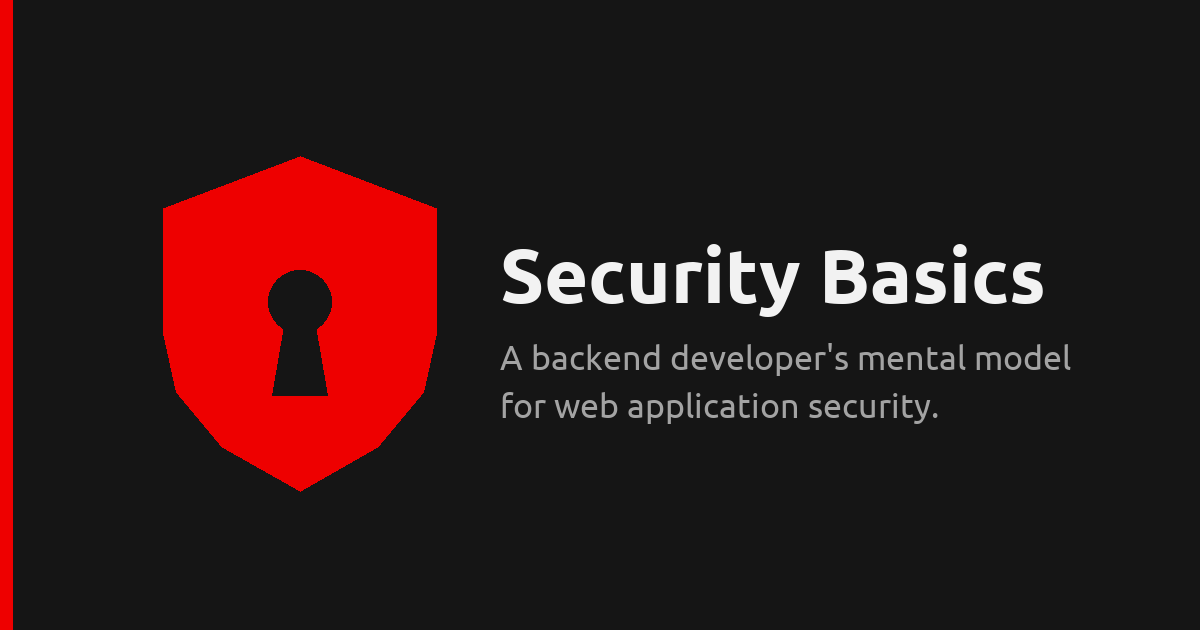
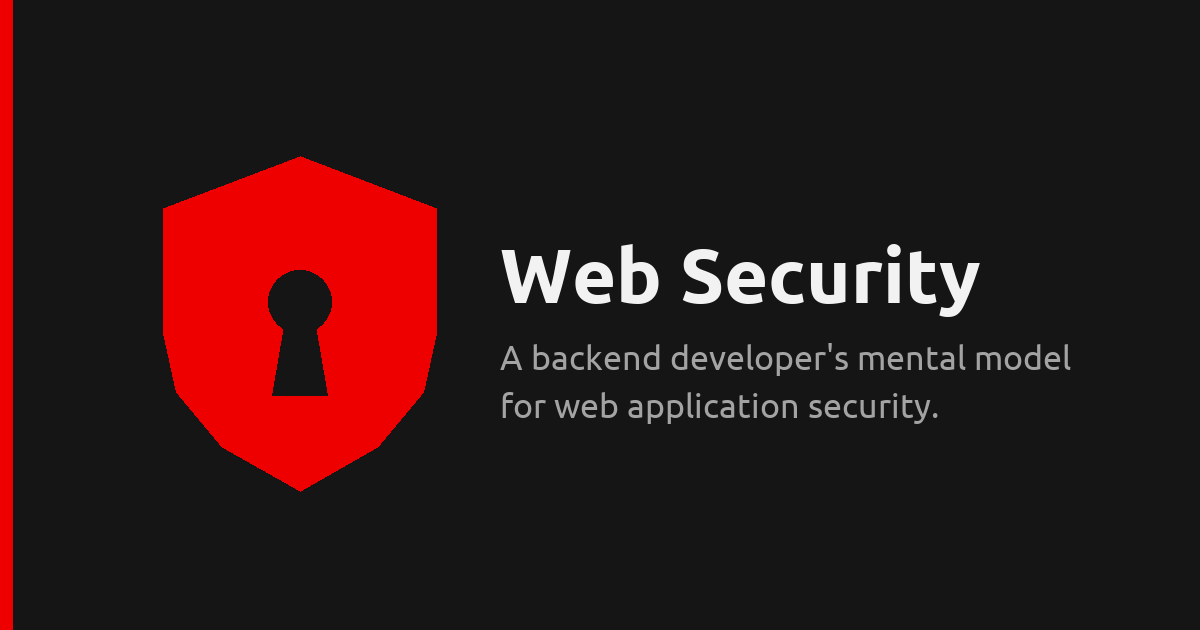
Rename site to "Web Security"; add phone type scale
- site_name -> "Web Security", cascading to <title>, OG/Twitter,
  JSON-LD, PWA manifest name/short_name, apple-mobile-web-app-title,
  the homepage h1, SVG aria-labels, and the regenerated og-image.png
  (rebuilt with the Ubuntu TTFs). Canonical URLs / the /security-basic/
  path are unchanged.
- New @media (max-width: 600px) block: all headings flatten to 18px,
  body + code + admonitions to 14px. Desktop scale (22->16) untouched.

Claude-Session: https://claude.ai/code/session_01TiA7XdqRGDMRJvGMhjvVuk

Changed region(s): [[0.4008, 0.3921, 0.8942, 0.5127]]

diff --git a/docs/stylesheets/extra.css b/docs/stylesheets/extra.css
@@ -1,5 +1,5 @@
 /* ============================================================================
-   Security Basics — Design System
+   Web Security — Design System
    Adapted from the Red Hat Design System (https://ux.redhat.com).
    Token values below are the RHDS "crayon" palette and scales; the theme is
    dark-first, and the font is Ubuntu / Ubuntu Mono per the site brief.
@@ -468,4 +468,35 @@ body,
   background: var(--rh-color-red-50);
   border-radius: var(--rh-border-radius);
   vertical-align: middle;
+}
+
+/* ------------------------------------------------------------------ *
+ * 12. Phone (<= 600px): flat 18px headings, 14px body + code         *
+ * ------------------------------------------------------------------ */
+@media screen and (max-width: 600px) {
+  body,
+  .md-typeset {
+    font-size: 14px;
+  }
+  .md-typeset h1,
+  .md-typeset h2,
+  .md-typeset h3,
+  .md-typeset h4,
+  .md-typeset h5,
+  .md-typeset h6 {
+    font-size: 18px;
+  }
+  .md-typeset p,
+  .md-typeset li {
+    font-size: 14px;
+  }
+  .md-typeset code,
+  .md-typeset pre > code {
+    font-size: 14px;
+  }
+  /* admonition body tracks the 14px scale too */
+  .md-typeset .admonition,
+  .md-typeset details {
+    font-size: 14px;
+  }
 }

diff --git a/overrides/main.html b/overrides/main.html
@@ -71,7 +71,7 @@
   <link rel="apple-touch-icon" href="{{ base_url }}/assets/icons/apple-touch-icon.png">
   <meta name="apple-mobile-web-app-capable" content="yes">
   <meta name="apple-mobile-web-app-status-bar-style" content="black-translucent">
-  <meta name="apple-mobile-web-app-title" content="Security Basics">
+  <meta name="apple-mobile-web-app-title" content="Web Security">
   <meta name="mobile-web-app-capable" content="yes">
   <script>
     if ("serviceWorker" in navigator) {

diff --git a/docs/sw.js b/docs/sw.js
@@ -1,4 +1,4 @@
-/* Security Basics — service worker
+/* Web Security — service worker
    Scope: the directory this file is served from (the site root on GitHub Pages).
    Strategy:
      - navigations  -> network-first, fall back to cache, then the offline page

diff --git a/scripts/gen_og.py b/scripts/gen_og.py
@@ -52,7 +52,7 @@ d.polygon(_poly(STEM, cx, cy, s), fill=DARK[:3])
 
 # text block, right
 tx = 500
-d.text((tx, 232), "Security Basics", font=font(bold, 76), fill=WHITE[:3])
+d.text((tx, 232), "Web Security", font=font(bold, 76), fill=WHITE[:3])
 d.text((tx, 338), "A backend developer's mental model", font=font(regular, 34), fill=MUTED[:3])
 d.text((tx, 386), "for web application security.", font=font(regular, 34), fill=MUTED[:3])
 

diff --git a/docs/design-system.md b/docs/design-system.md
@@ -69,7 +69,7 @@ keep the monospace grid). Body line-height `1.5`, heading line-height `1.3`.
 Headings render at a compressed 22 → 16 px scale.
 
 <div markdown="0">
-  <div class="sb-type-row"><span class="sb-type-row__label">h1<br>1.375rem · 700 · OCR A</span><span style="font-family:'OCR A Std',monospace;font-size:1.375rem;font-weight:700">Security Basics</span></div>
+  <div class="sb-type-row"><span class="sb-type-row__label">h1<br>1.375rem · 700 · OCR A</span><span style="font-family:'OCR A Std',monospace;font-size:1.375rem;font-weight:700">Web Security</span></div>
   <div class="sb-type-row"><span class="sb-type-row__label">h2<br>1.25rem · 700 · OCR A</span><span style="font-family:'OCR A Std',monospace;font-size:1.25rem;font-weight:700">Confidentiality</span></div>
   <div class="sb-type-row"><span class="sb-type-row__label">h3<br>1.125rem · 500 · OCR A</span><span style="font-family:'OCR A Std',monospace;font-size:1.125rem;font-weight:500">Broken confidentiality</span></div>
   <div class="sb-type-row"><span class="sb-type-row__label">h4–h6<br>1rem · OCR A</span><span style="font-family:'OCR A Std',monospace;font-size:1rem;font-weight:700">Session-based authentication</span></div>

diff --git a/CLAUDE.md b/CLAUDE.md
@@ -4,7 +4,7 @@ This file provides guidance to Claude Code (claude.ai/code) when working with co
 
 ## What this repository is
 
-A **documentation site** ("Security Basics") built with **MkDocs + Material**, teaching web
+A **documentation site** ("Web Security") built with **MkDocs + Material**, teaching web
 application security as an *engineering mental model* for a backend developer rather than as
 exam definitions. Published to GitHub Pages at
 `https://chiranjit2020.github.io/security-basic/`.

diff --git a/docs/index.md b/docs/index.md
@@ -2,7 +2,7 @@
 description: A backend developer's mental model for web application security — the three states of data, the CIA triad, and why each mechanism (TLS, hashing, RBAC, JWT) exists.
 ---
 
-# Security Basics
+# Web Security
 
 A backend developer's **mental model** for web application security — built as one
 connected map instead of a pile of isolated facts.

diff --git a/docs/chapters/index.md b/docs/chapters/index.md
@@ -1,5 +1,5 @@
 ---
-description: The Security Basics chapters — each opens with a question, then the answer. CIA triad, authentication vs authorization, cryptography, TLS.
+description: The Web Security chapters — each opens with a question, then the answer. CIA triad, authentication vs authorization, cryptography, TLS.
 ---
 
 # Chapters
